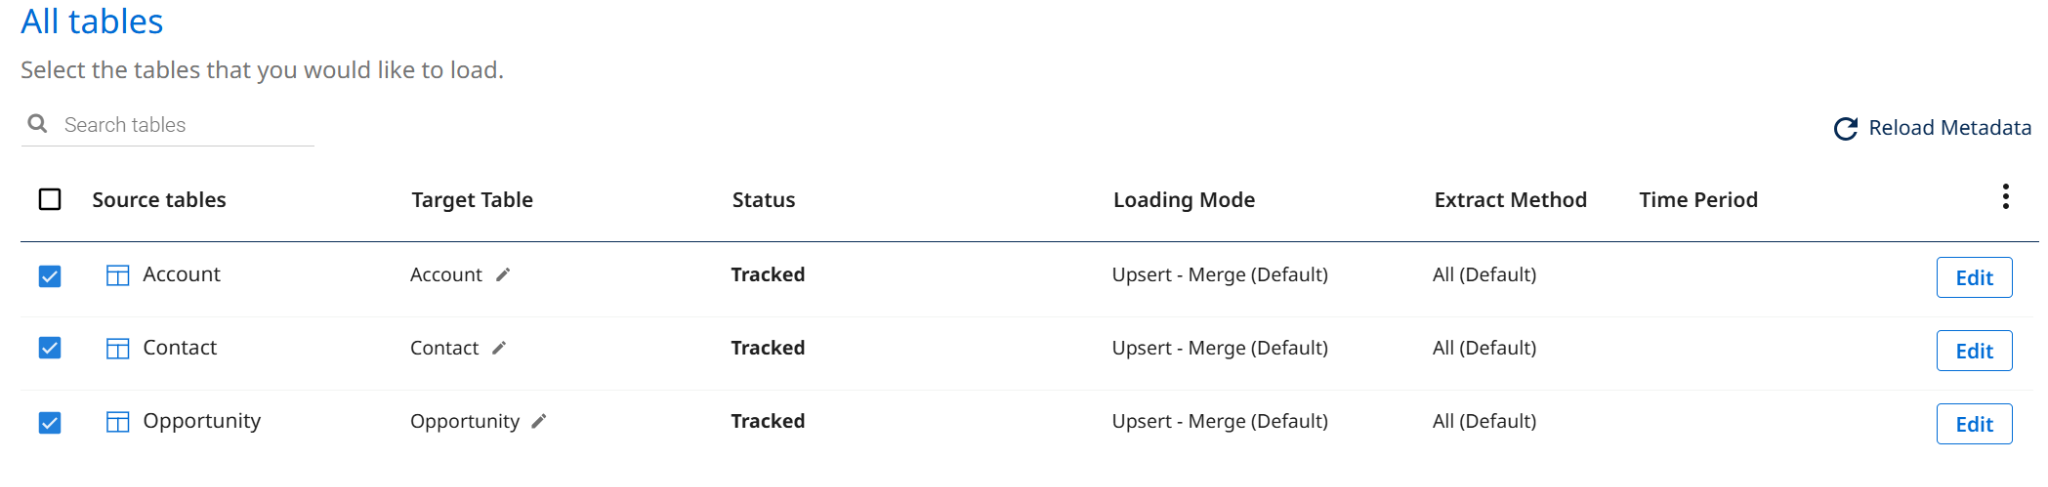
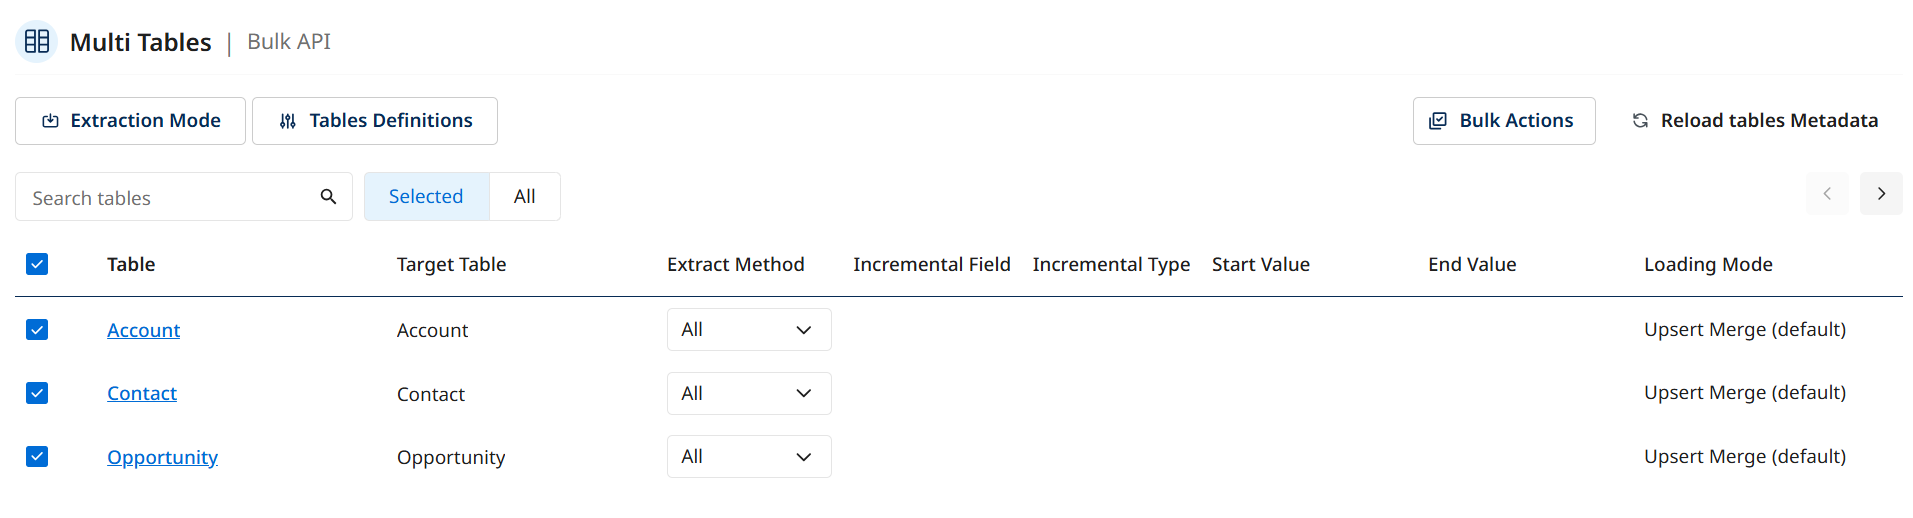
update lab with new SFDC images

diff --git a/labs/boomi-data-integration/exercise-2.html b/labs/boomi-data-integration/exercise-2.html
@@ -63,28 +63,23 @@
       <header class="step-header"><div class="step-label">Step 2 of 3</div><h1 class="step-title">Create the Salesforce &rarr; Snowflake Flow</h1></header>
       <ol class="instruction-list">
         <li><div class="instruction-num">1</div><div class="instruction-body">
-          <p>Click <strong>Create &rarr; Source to Target Flow</strong>. Search for <strong>Salesforce</strong> and choose the <strong>Salesforce (Legacy) </strong>option.</p>
-          <div class="callout warning"><span class="callout-icon"><svg width="16" height="16" viewBox="0 0 24 24" fill="none" stroke="currentColor" stroke-width="2"><path d="M10.29 3.86L1.82 18a2 2 0 001.71 3h16.94a2 2 0 001.71-3L13.71 3.86a2 2 0 00-3.42 0z"/><line x1="12" y1="9" x2="12" y2="13"/><line x1="12" y1="17" x2="12.01" y2="17"/></svg></span><div>Due to authentication limitations in this lab environment, use the Salesforce (Legacy) connector. In production you would use the standard OAuth connector.</div></div>
+          <p>Click <strong>Create &rarr; Source to Target Flow</strong>. Search for <strong>Salesforce</strong> and choose the <strong>Salesforce </strong>option. From the connection dropdown, choose the <strong>Salesforce</strong> connection if not already selected.</p>
 			<figure class="screenshot"><img src="images/ex2/image02.png" alt="Source selection — Salesforce"></figure>
-			<p>In the Source tab, check the <strong>Include Deleted Rows</strong> box.</p>
 		</div></li>
         <li><div class="instruction-num">2</div><div class="instruction-body">
-            <p>Navigate to the <strong>Target</strong> tab. Choose <strong>Snowflake</strong> and your Exercise 0 connection. Set Database to <code>BDI_LAB</code> and Schema to <code>RAW</code>.</p>
+            <p>Navigate to the <strong>Select Data Target</strong> tab. Choose <strong>Snowflake</strong> and your Exercise 0 connection. Set Database to <code>BDI_LAB</code> and Schema to <code>RAW</code>.</p>
 			<figure class="screenshot"><img src="images/ex2/image03.png" alt="Source tab with Include Deleted Rows checked"></figure>
         </div></li>
         <li><div class="instruction-num">3</div><div class="instruction-body">
-            <p>Navigate to the <strong>Schema</strong> tab. Select: <strong>Account</strong>, <strong>Opportunity</strong>, <strong>Contact</strong>.</p>
+            <p>Navigate to the <strong>Configure Schema</strong> tab. For the extraction mode, select <strong>Bulk API.</strong> Next you'll see a list of Salesforce entities. Select: <strong>Account</strong>, <strong>Opportunity</strong>, <strong>Contact</strong>.</p>
 			<figure class="screenshot"><img src="images/ex2/image04.png" alt="Target tab — Snowflake BDI_LAB.RAW"></figure>
         </div></li>
         <li><div class="instruction-num">4</div><div class="instruction-body">
-          <p>Click into <strong>Opportunity &rarr; Table Settings</strong>. Set Extraction Method to <strong>Incremental</strong> and Start Date to <strong>January 1, 2022</strong>. Leave End Date empty.</p>
+          <p>On the <strong>Opportunity</strong> entity, set the Extract Method to <strong>Incremental</strong> with <strong>systemmodstamp</strong> as the incremental field.and Start Date to <strong>January 1, 2022</strong>. Leave End Date empty.</p>
             <figure class="screenshot"><img src="images/ex2/image05.png" alt="Opportunity incremental extraction settings"></figure>
-            <figure class="screenshot"><img src="images/ex2/image06.png" alt="Date range — Jan 1, 2022 start"></figure>
-          <p>Click <strong>All Tables</strong> to return to the entity list and confirm all three are checked.</p>
-            <figure class="screenshot"><img src="images/ex2/image07.png" alt="Schema tab — 3 entities selected"></figure>
         </div></li>
         <li><div class="instruction-num">5</div><div class="instruction-body">
-          <p>Navigate to <strong>Settings</strong>. Name the flow <strong>bdi-lab-salesforce-snowflake</strong> and click <strong>Save</strong>.</p>
+          <p>Navigate to the <strong>Sechedule and Settings</strong> tab. Name the flow <strong>bdi-lab-salesforce-snowflake</strong> and click <strong>Activate</strong> to activate the data flow.</p>
         </div></li>
       </ol>
         <nav class="step-nav">
@@ -98,7 +93,7 @@
       <header class="step-header"><div class="step-label">Step 3 of 3</div><h1 class="step-title">Run &amp; Verify</h1></header>
       <ol class="instruction-list">
         <li><div class="instruction-num">1</div><div class="instruction-body">
-          <p>Click <strong>Run</strong> at the bottom of the screen. Open the <strong>Activities</strong> screen and wait for all three tables to show green check marks.</p>
+          <p>After the activation process, click <strong>Run Data Flow</strong> at the bottom of the screen. Open the <strong>Activities</strong> screen and wait for all three tables to show green check marks.</p>
             <figure class="screenshot"><img src="images/ex2/image08.png" alt="Run tree — Salesforce tables loading"></figure>
         </div></li>
         <li><div class="instruction-num">2</div><div class="instruction-body">
